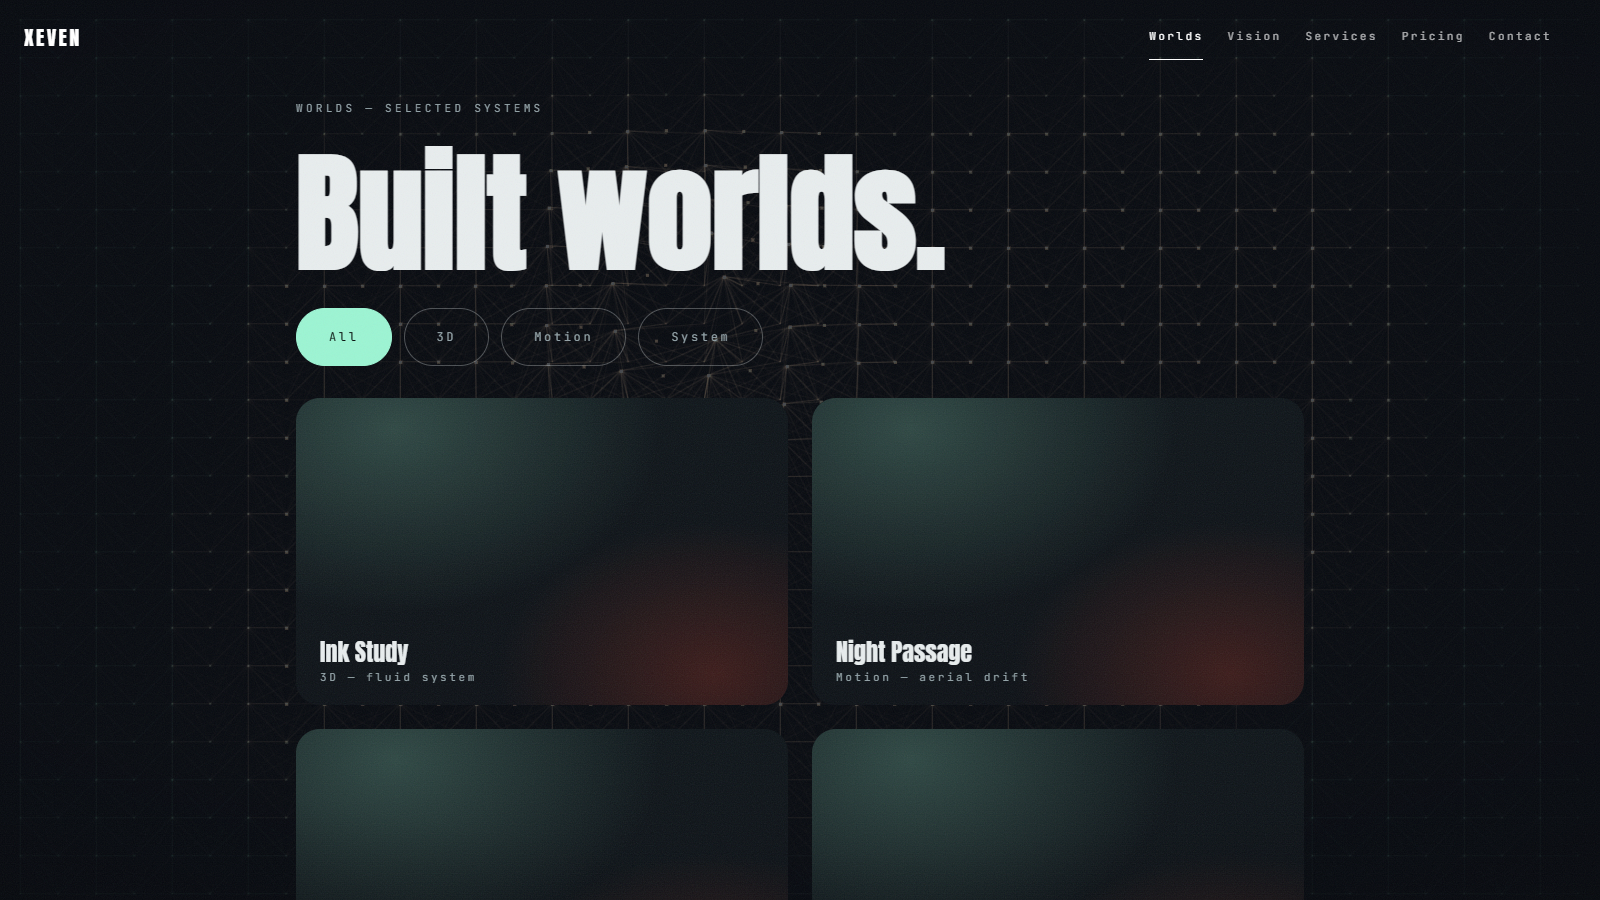
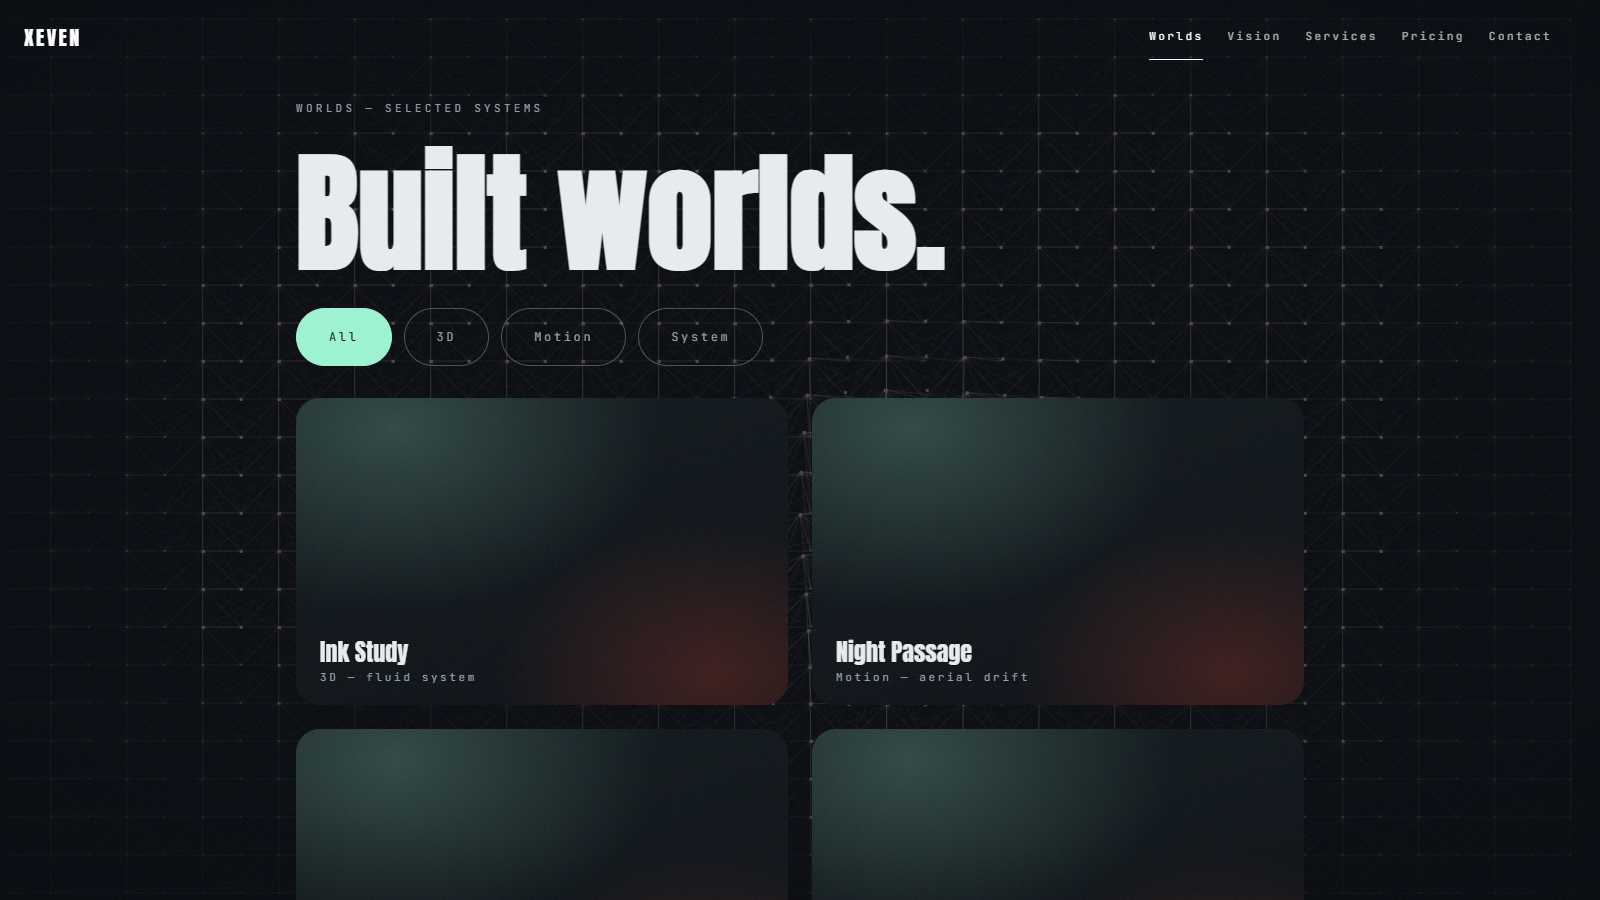
Centered cylinder: symmetric two-axis wrap, viewer at diameter and height middle

diff --git a/src/components/GraphBg.tsx b/src/components/GraphBg.tsx
@@ -77,11 +77,11 @@ export default function GraphBg() {
       heat = new Float32Array(gw * gh)
       heat2 = new Float32Array(gw * gh)
       buckets = new Map<string, number[]>()
-      // index curve: level-camera cylinder — the camera sits at 0°
-      // elevation inside the curve, so the flanks compress toward center
-      // in x and the horizon never bends up or down. Subpages stay flat
-      // so copy owns the frame.
-      curveAmp = indexBoost() ? Math.min(140, h * 0.12) : Math.min(30, h * 0.035)
+      // index curve: centered inside-cylinder — viewer at the middle of
+      // the diameter AND the height. Flanks squeeze, crown lifts, floor
+      // drops, all terms zero at viewport center: unmistakable wrap with
+      // zero tilt. Subpages stay flat so copy owns the frame.
+      curveAmp = indexBoost() ? Math.min(150, h * 0.13) : Math.min(30, h * 0.035)
       dots = []
       for (let y = gap / 2; y < h; y += gap) {
         for (let x = gap / 2; x < w; x += gap) {
@@ -99,9 +99,11 @@ export default function GraphBg() {
       // the curve lives on the index only — everywhere else the field is flat
       const ca = xs.route === 'enter' ? curveAmp : 0
       for (const d of dots) {
-        // level camera: flanks compress toward center, horizon never bends
+        // centered inside-cylinder: flanks squeeze, crown lifts, floor
+        // drops — all zero at viewport middle, so no tilt in any direction
         const nx = (d.x - hw) / hw
-        ctx.fillRect(d.x - ca * nx * Math.abs(nx) - 1, d.y - 1, 2, 2)
+        const ny = (d.y - h / 2) / (h / 2)
+        ctx.fillRect(d.x - ca * nx * Math.abs(nx) - 1, d.y + ca * ny * Math.abs(ny) - 1, 2, 2)
       }
     }
     build()
@@ -251,6 +253,9 @@ export default function GraphBg() {
         // level cylinder: flanks squeeze toward center, horizon untouched
         const nc = (dx - w / 2) / (w / 2)
         dx -= curveLive * nc * Math.abs(nc)
+        // centered wrap: crown lifts, floor drops, equator never moves
+        const nl = (dy - h / 2) / (h / 2)
+        dy += curveLive * nl * Math.abs(nl)
         // spatial warp: the lattice yields around the pointer like fabric,
         // lines stretch with it since they join the displaced dots
         let mdx = dx - sm.x
@@ -269,9 +274,9 @@ export default function GraphBg() {
         const hx = Math.max(0, Math.min(gw - 1, Math.floor(dx / CELL)))
         const hy = Math.max(0, Math.min(gh - 1, Math.floor(dy / CELL)))
         const hh = Math.min(1, heat[hy * gw + hx])
-        // cylinder shading (index only): flanks fall into shadow so the
-        // wrap reads even in a still — pure alpha, horizon untouched
-        const shade = xs.route === 'enter' ? 1 - 0.55 * nc * nc : 1
+        // cylinder shading (index only): rims fall into shadow so the
+        // wrap reads even in a still — pure alpha, symmetric, zero tilt
+        const shade = xs.route === 'enter' ? 1 - 0.4 * (nc * nc + nl * nl) : 1
         const a = Math.min(1, (0.1 + near * 0.5 + boost * 0.2 + hh * 0.9) * shade)
         const hr = Math.round(156 + 99 * hh)
         const hg2 = Math.round(245 - 31 * hh)
@@ -294,14 +299,16 @@ export default function GraphBg() {
                 const npc = (ox - w / 2) / (w / 2)
                 const oy = dots[j].y
                 const oxc = ox - curveLive * npc * Math.abs(npc)
+                const nyc = (oy - h / 2) / (h / 2)
+                const oyc = oy + curveLive * nyc * Math.abs(nyc)
                 let ddx = Math.abs(oxc - dx)
-                let ddy = Math.abs(oy - dy)
+                let ddy = Math.abs(oyc - dy)
                 ddx = Math.min(ddx, w - ddx)
                 ddy = Math.min(ddy, h - ddy)
                 const d = Math.hypot(ddx, ddy)
               if (d < linkDist && d > 4) {
                 const oxh = Math.max(0, Math.min(gw - 1, Math.floor(oxc / CELL)))
-                const oyh = Math.max(0, Math.min(gh - 1, Math.floor(oy / CELL)))
+                const oyh = Math.max(0, Math.min(gh - 1, Math.floor(oyc / CELL)))
                 const have = (hh + Math.min(1, heat[oyh * gw + oxh])) / 2
                 const la = Math.min(0.85, (1 - d / linkDist) * 0.16 * (0.5 + near + boost * 0.5) * (1 + have * 3) * shade)
                 ctx.strokeStyle =
@@ -310,7 +317,7 @@ export default function GraphBg() {
                     : `rgba(156,245,211,${la.toFixed(3)})`
                   ctx.beginPath()
                   ctx.moveTo(dx, dy)
-                  ctx.lineTo(oxc, oy)
+                  ctx.lineTo(oxc, oyc)
                   ctx.stroke()
                 }
               }

diff --git a/backlog.md b/backlog.md
@@ -37,3 +37,4 @@ Scope frozen: map-only phase found zero blank routes, zero dead links, zero cons
 - [x] GraphBg index showcase tier: curve ≤30px → ≤72px (8vh) on enter only, DPR 1.5 → 1.65, gap 38 → 36, link reach 140 → 150 (subpages untouched). First attempt (DPR 2 + gap 30 + full lines) blew the budget at 14.7fps/145 longtasks — retuned twice to 58.4fps/0 longtasks. Verified: index 58.4 / worlds 60 / mobile 60, reduced static + hashchange tier swap, overflow 0 everywhere, zero errors. Evidence: verify/cinema2/c5-*.png + c5-metrics.json, scripts/c5-graph.mjs.
 - [x] Curve outward (camera inside the cylinder): sign flipped (edges lift, center holds closest), amp 72px/8vh → 90px/10vh, reel-cell arc mirrored to −8vh so panels stay glued to the field. Verified: outward read on hero frame, index 53.8 / worlds 60 / mobile 60, 0 longtasks, overflow 0, zero errors.
 - [x] Level-camera cylinder: curve re-expressed as horizontal foreshortening (flanks squeeze toward center, y untouched), drift flattened to x-only, amp → 140px/12vh + index-only flank shading (dots + lines dim to 45% at edges) so the wrap reads in stills with zero verticality. Reel panels travel flat. Verified: level horizon on hero frame, flanks in shadow, index 53.9 / worlds 60 / mobile 60.2, 0 longtasks, overflow 0, zero errors.
+- [x] Centered cylinder (viewer at diameter + height middle): symmetric two-axis wrap — flanks squeeze, crown lifts, floor drops, all terms zero at viewport center (no tilt possible); radial shading (corners → 20%); amp → 150px/13vh. Verified: flank convergence + rim shadow on hero frame, index 55.5 / worlds 59.3 / mobile 60.2, 0 longtasks, overflow 0, zero errors.
